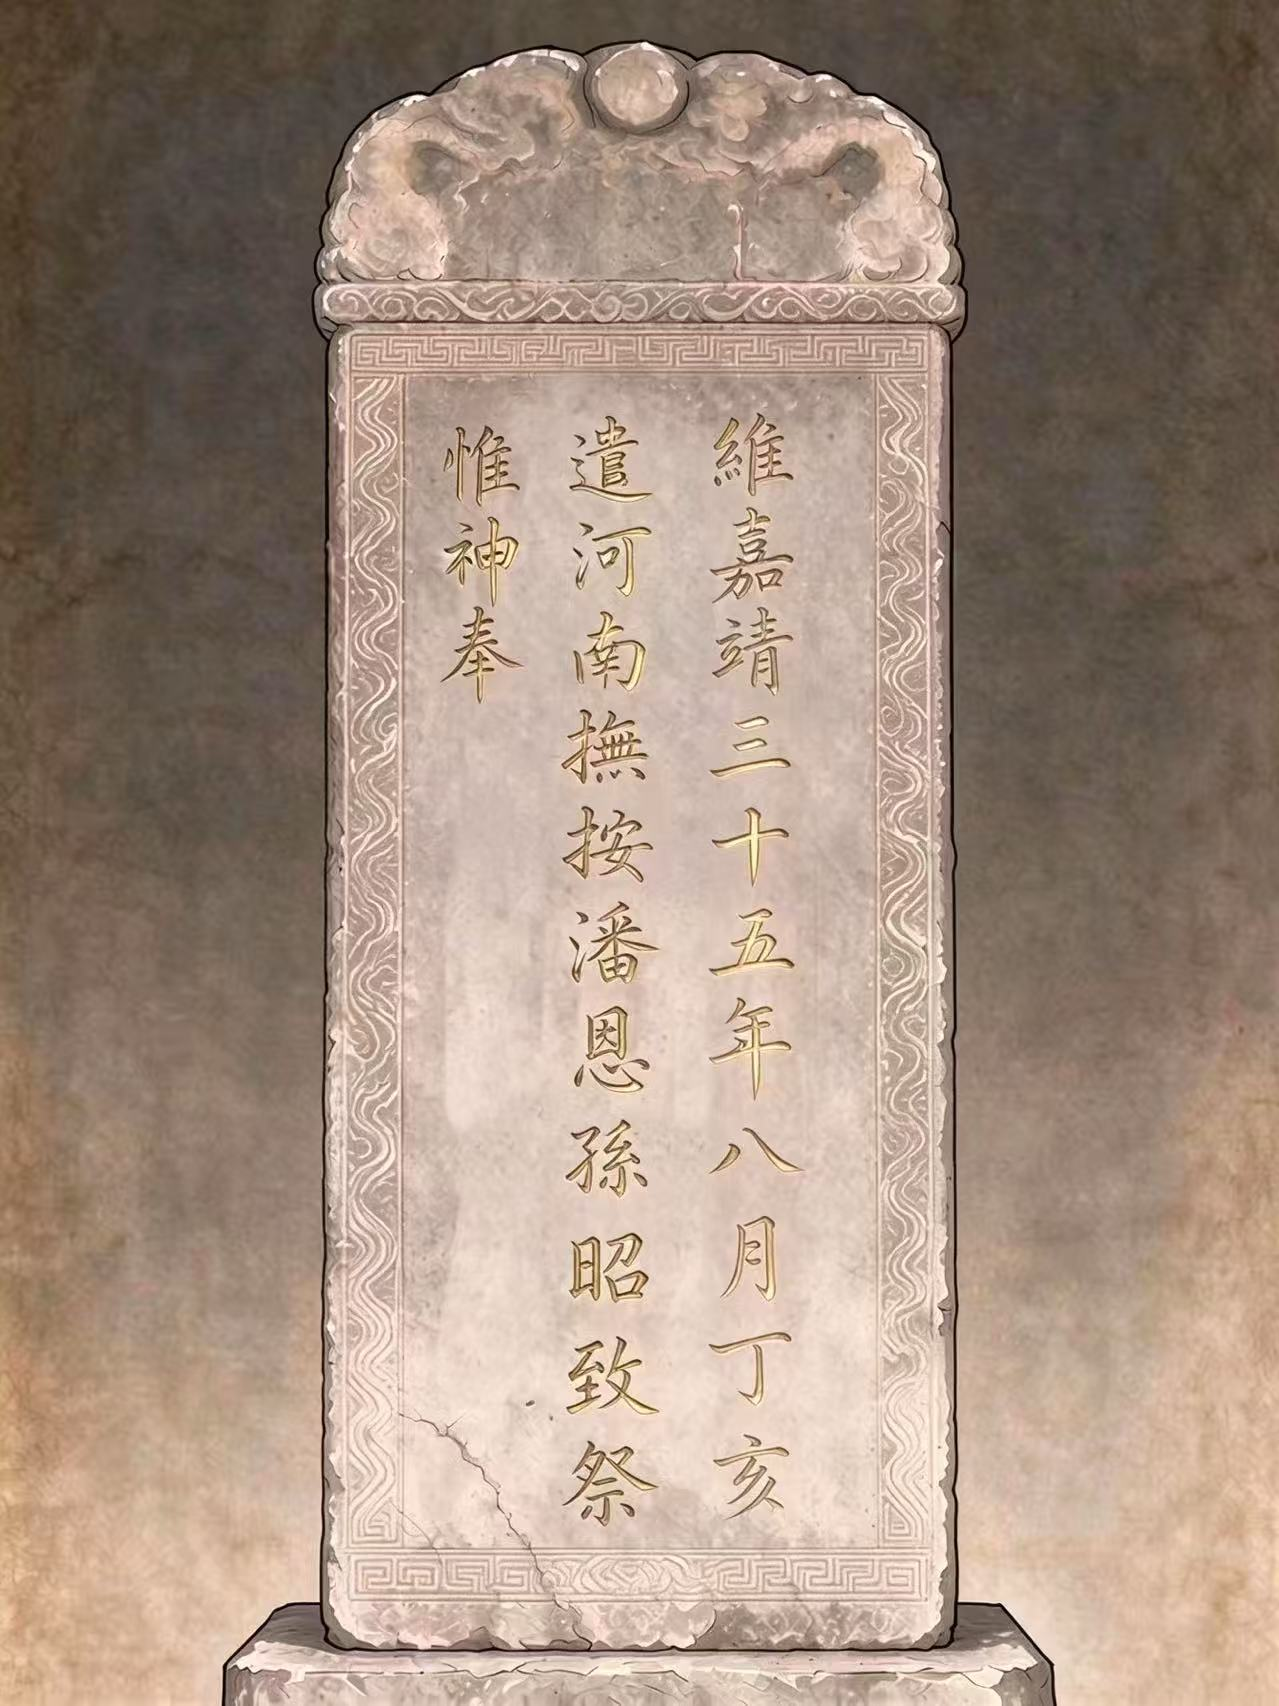
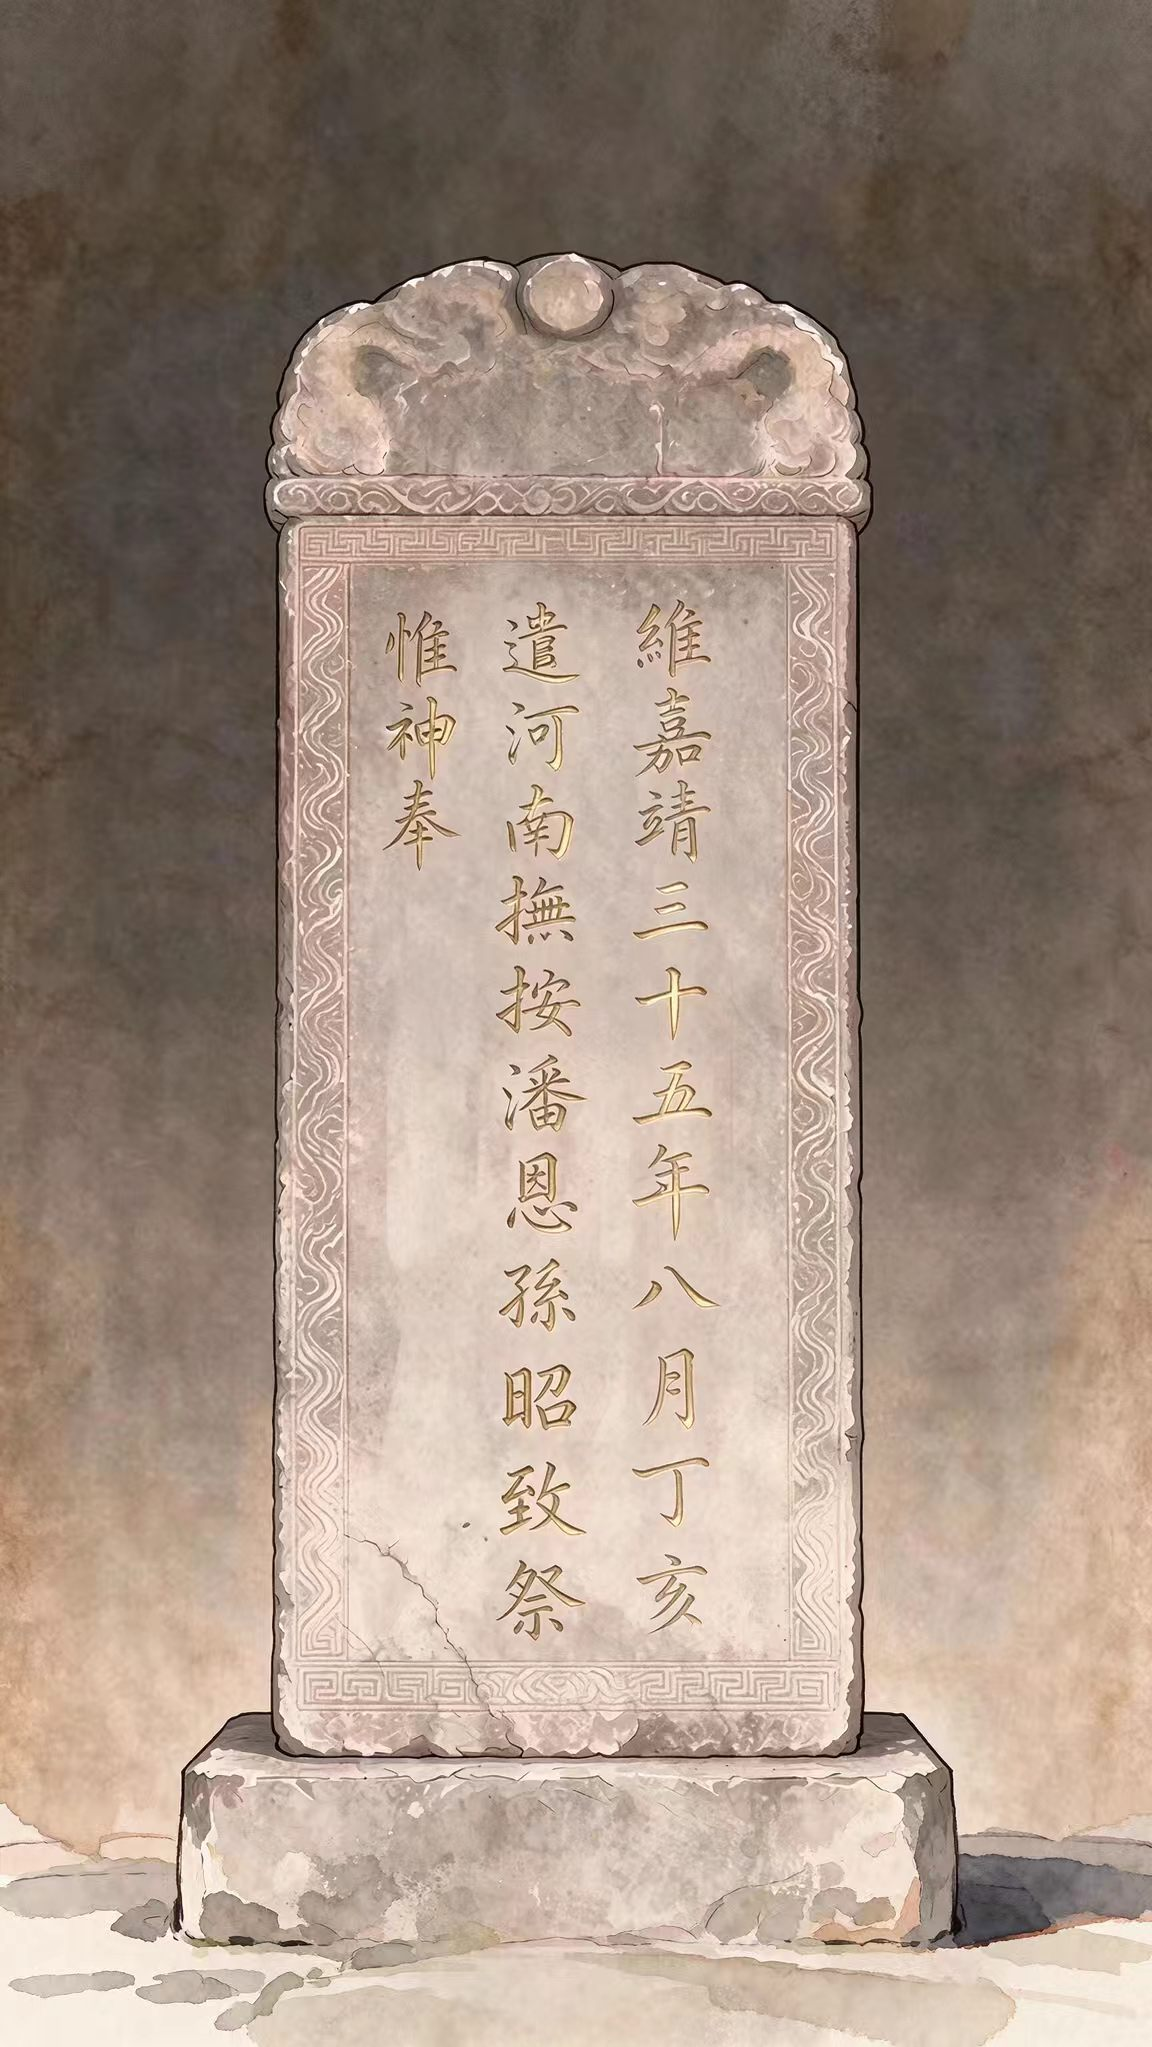
碑林擦碑：换新石碑（9:16）并同步脏污层尺寸

diff --git a/app.js b/app.js
@@ -4515,14 +4515,14 @@ var bagBtn = $('#bagBtn');
       '<div class="beilin-scene__frame" id="beilinFrame">' +
         '<img class="beilin-scene__clean" src="assets/beilin/stele.jpg" alt="太昊陵碑林石碑">' +
         '<div class="beilin-scene__dirty" id="beilinDirty">' +
-          '<svg viewBox="0 0 1280 1707" aria-hidden="true">' +
+          '<svg viewBox="0 0 1152 2047" preserveAspectRatio="none" aria-hidden="true">' +
             '<defs>' +
               '<filter id="beilinBlur" x="-6%" y="-6%" width="112%" height="112%"><feGaussianBlur stdDeviation="9.5"/></filter>' +
               '<filter id="beilinGrain"><feTurbulence type="fractalNoise" baseFrequency=".8" numOctaves="3" seed="7"/><feColorMatrix type="saturate" values="0"/></filter>' +
             '</defs>' +
-            '<image href="assets/beilin/stele.jpg" x="0" y="0" width="1280" height="1707" filter="url(#beilinBlur)"/>' +
-            '<rect x="0" y="0" width="1280" height="1707" fill="#5a5040" opacity=".3"/>' +
-            '<rect x="0" y="0" width="1280" height="1707" filter="url(#beilinGrain)" opacity=".18"/>' +
+            '<image href="assets/beilin/stele.jpg" x="0" y="0" width="1152" height="2047" preserveAspectRatio="none" filter="url(#beilinBlur)"/>' +
+            '<rect x="0" y="0" width="1152" height="2047" fill="#5a5040" opacity=".3"/>' +
+            '<rect x="0" y="0" width="1152" height="2047" filter="url(#beilinGrain)" opacity=".18"/>' +
             '<g class="beilin-webs" opacity=".6">' + webs + '</g>' +
           '</svg>' +
         '</div>' +

diff --git a/app.css b/app.css
@@ -4238,7 +4238,7 @@ h1, h2, h3, .intro__title, .act-title h2, .panel__title,
 .beilin-scene { position: fixed; inset: 0; z-index: 98; display: grid; place-items: center; overflow: hidden; background: #16120d; }
 .beilin-scene[hidden] { display: none; }
 .beilin-scene__bg { position: absolute; inset: -8%; background: radial-gradient(60% 55% at 50% 45%, #4a4033, #1c1712 75%); filter: blur(26px); }
-.beilin-scene__frame { position: relative; width: min(92vw, calc(100vh * 1280 / 1706 * 0.94)); aspect-ratio: 1280 / 1706; box-shadow: 0 26px 60px -20px rgba(0,0,0,.75), inset 0 0 0 1px rgba(220,205,175,.25); cursor: none; touch-action: none; }
+.beilin-scene__frame { position: relative; width: min(92vw, calc(100vh * 1152 / 2047 * 0.94)); aspect-ratio: 1152 / 2047; box-shadow: 0 26px 60px -20px rgba(0,0,0,.75), inset 0 0 0 1px rgba(220,205,175,.25); cursor: none; touch-action: none; }
 .beilin-scene__clean { position: absolute; inset: 0; width: 100%; height: 100%; object-fit: cover; display: block; }
 .beilin-scene__dirty { position: absolute; inset: 0; opacity: 1; transition: opacity .9s ease; }
 .beilin-scene.is-clean .beilin-scene__dirty { opacity: 0; }

diff --git a/index.html b/index.html
@@ -8,7 +8,7 @@
 <title>羲皇寻踪 · 淮阳太昊陵</title>
 <meta name="description" content="从俯瞰太昊陵，到太昊陵前的集市，穿过内街推开午朝门，完成陵庙打卡，领取一张带盖章动画的完赛证书。">
 <link rel="stylesheet" href="tokens.css?v=20261125c">
-<link rel="stylesheet" href="app.css?v=20261125z">
+<link rel="stylesheet" href="app.css?v=20261125A">
 </head>
 <body>
   <button class="global-back" id="globalBack" type="button" aria-label="回到上一步">← 上一步</button>
